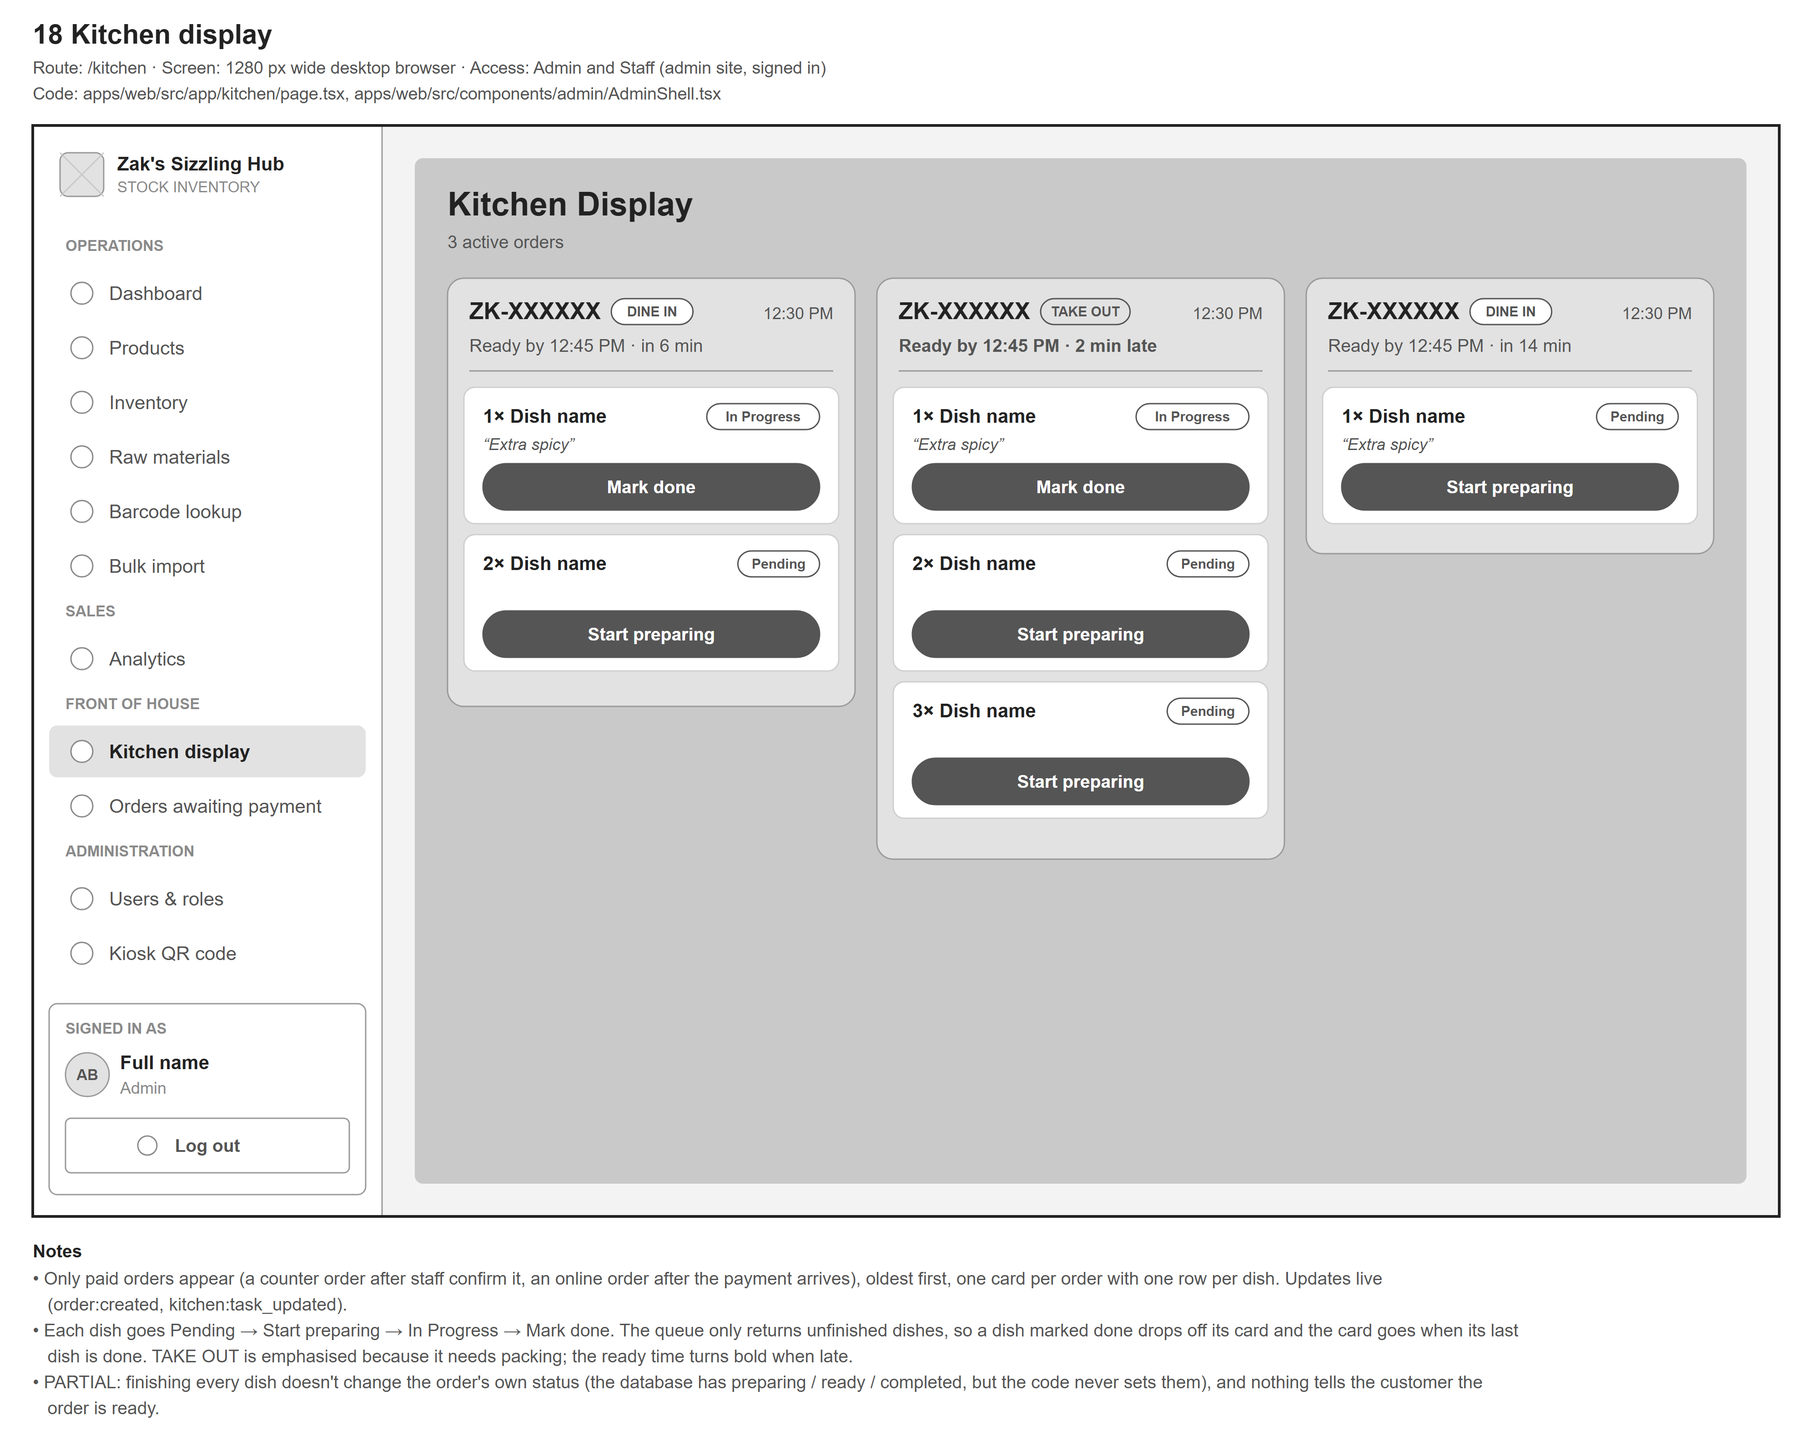
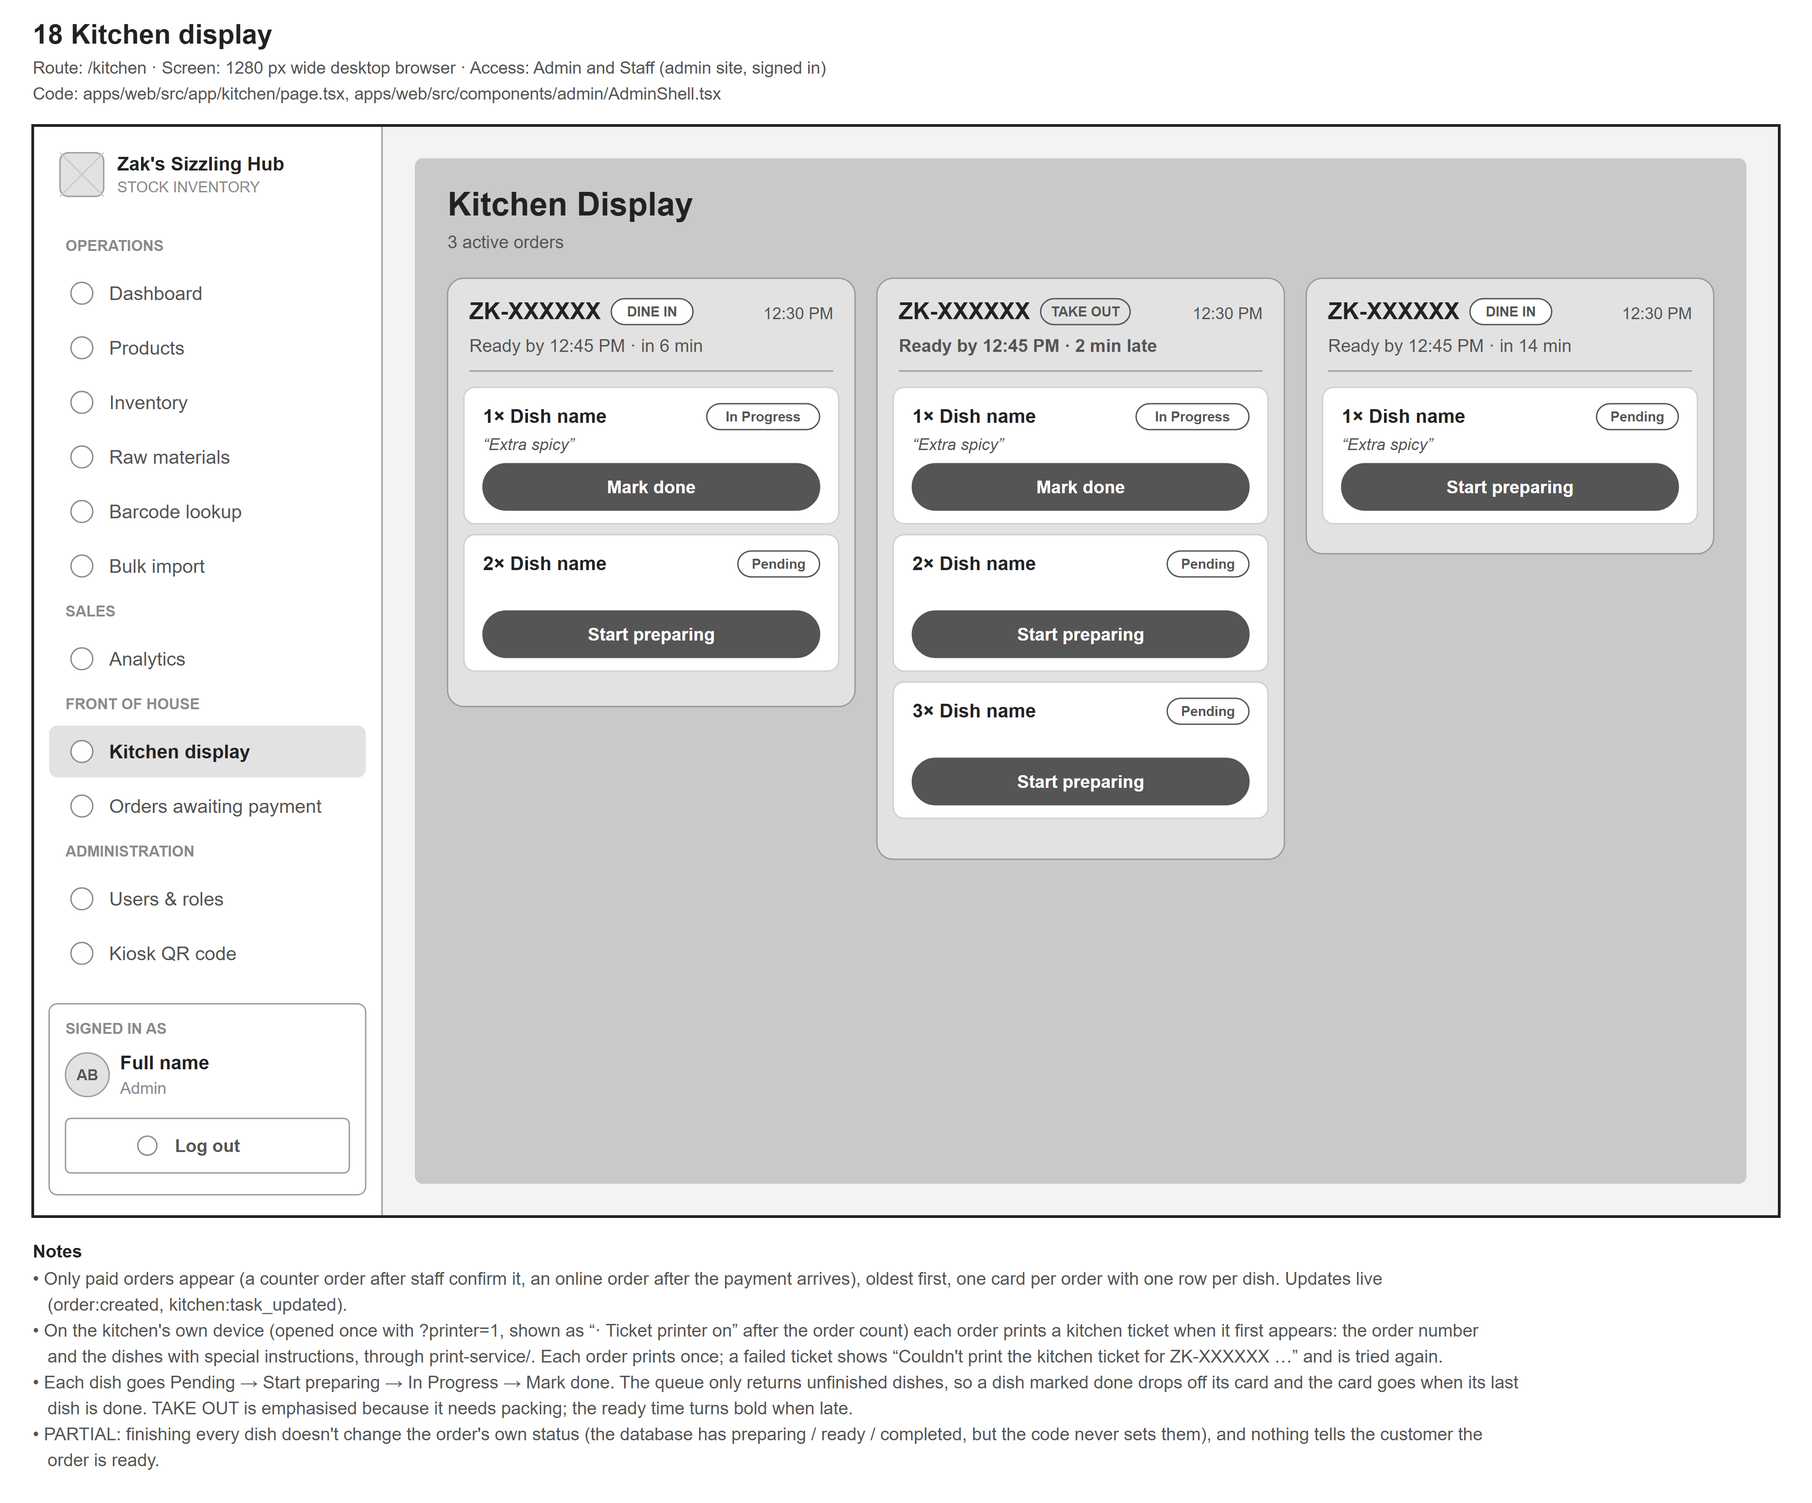
docs: kitchen ticket printing in READMEs and diagrams
The print service README covers both printers and their setup. Wireframe 08 shows
the receipt message again, 18 notes the kitchen ticket, flow 06 gains the ticket
step, and flow 03 and the diagrams README match.

Changed region(s): [[0.0, 0.031, 0.9649, 0.5893], [0.0, 0.4342, 0.9649, 0.9925]]

diff --git a/docs/diagrams/source/flows_more.py b/docs/diagrams/source/flows_more.py
@@ -129,10 +129,11 @@ def online_payment():
 def kitchen():
     f = Flow("kitchen-fulfilment", "06", "Kitchen fulfilment",
              ["Kitchen staff", "Kitchen display (web app)", "API server"],
-             W + "app/kitchen/page.tsx, " + API + "kitchen/routes.ts, " + API + "kitchen/service.ts, " + API + "orders/prepTime.ts (setEstimateOnReachingKitchen)",
+             W + "app/kitchen/page.tsx, " + W + "lib/receiptPrinter.ts, print-service/server.js, " + API + "kitchen/routes.ts, " + API + "kitchen/service.ts, " + API + "orders/prepTime.ts (setEstimateOnReachingKitchen)",
              notes=[
                  "PARTIAL: finishing every dish doesn't change the order's own status (the database has preparing, ready and completed, but the code never sets them), and nothing in the system tells the customer the order is ready; the receipt says “We'll call your order number”.",
                  "Any signed-in Staff or Admin can use the kitchen display. A dish only moves forward: Pending → In Progress → Completed.",
+                 "Kitchen tickets print only on the device with the kitchen printer (print-service/), once per order; if printing fails the display says so and tries again with the next update or within 30 seconds.",
              ])
     S, K, A = f.lanes
     f.n("start", A, 0, "start", "Order is paid (Flow 04 or 05)")
@@ -140,22 +141,27 @@ def kitchen():
     f.n("notify", A, 2, "process", "Send “order:created” to every open kitchen display")
     f.n("reload", K, 3, "process", "Reload the queue: unfinished dishes only, grouped by order, oldest first")
     f.n("cards", K, 4, "io", "Show the order cards: number, DINE IN / TAKE OUT, ready-by time, dishes (18)")
-    f.n("which", S, 5, "decision", "Next dish: Pending or In Progress?")
-    f.n("startp", S, 6, "process", "Press Start preparing")
-    f.n("inprog", A, 6, "process", "Set In Progress and the start time; send “kitchen:task_updated”")
-    f.n("reload2", K, 7, "process", "Reload the queue; the dish shows In Progress")
-    f.n("donep", S, 8, "process", "Cook the dish; press Mark done")
-    f.n("complete", A, 8, "process", "Set Completed and the finish time; send “kitchen:task_updated”")
-    f.n("reload3", K, 9, "process", "Reload the queue; the finished dish drops off its card")
-    f.n("left", K, 10, "decision", "Any dish of this order left?")
-    f.n("gone", K, 11, "process", "The order's card leaves the display")
-    f.n("call", S, 12, "process", "Call the order number (outside the system)", partial=True)
-    f.n("end", S, 13, "end", "End")
+    f.n("printer", K, 5, "decision", "Kitchen printer here, ticket not printed yet?")
+    f.n("ticket", K, 6, "process", "Send the ticket to the print service: order number and dishes; it prints on the kitchen printer")
+    f.n("which", S, 7, "decision", "Next dish: Pending or In Progress?")
+    f.n("startp", S, 8, "process", "Press Start preparing")
+    f.n("inprog", A, 8, "process", "Set In Progress and the start time; send “kitchen:task_updated”")
+    f.n("reload2", K, 9, "process", "Reload the queue; the dish shows In Progress")
+    f.n("donep", S, 10, "process", "Cook the dish; press Mark done")
+    f.n("complete", A, 10, "process", "Set Completed and the finish time; send “kitchen:task_updated”")
+    f.n("reload3", K, 11, "process", "Reload the queue; the finished dish drops off its card")
+    f.n("left", K, 12, "decision", "Any dish of this order left?")
+    f.n("gone", K, 13, "process", "The order's card leaves the display")
+    f.n("call", S, 14, "process", "Call the order number (outside the system)", partial=True)
+    f.n("end", S, 15, "end", "End")
     f.e("start", "tasks")
     f.e("tasks", "notify")
     f.e("notify", "reload")
     f.e("reload", "cards")
-    f.e("cards", "which")
+    f.e("cards", "printer")
+    f.e("printer", "ticket", "Yes")
+    f.e("printer", "which", "No", exit="l", entry="r")
+    f.e("ticket", "which", exit="b", entry="t")
     f.e("which", "startp", "Pending")
     f.e("which", "donep", "In Progress", exit="l")
     f.e("startp", "inprog", exit="r", entry="l")

diff --git a/docs/diagrams/source/screens_kiosk.py b/docs/diagrams/source/screens_kiosk.py
@@ -481,8 +481,7 @@ def receipt(f, paid):
     f.text(rx + rw - 18, y + 178, "₱000.00", size=20, bold=True, anchor="end")
     f.text(rx + 18, y + 204, "Payment method: QR Ph · Ref: (PayMongo reference)" if paid else "Payment method: Pay at counter", size=13, fill=INK2)
     if not paid:
-        f.text(rx, y + h - 124, "Take both slips below: keep your receipt and give", size=15, bold=True)
-        f.text(rx, y + h - 102, "the kitchen copy to the counter.", size=15, bold=True)
+        f.text(rx, y + h - 98, "Take your printed receipt below.", size=15, bold=True)
     f.btn(rx, y + h - 84, rw, 56, "Done", kind="primary", r=28, size=18)
 
 
@@ -490,7 +489,7 @@ def receipt_counter():
     f = kiosk("08", "Receipt: pay at counter", "/checkout  (after Place order)",
               K + "ReceiptModal.tsx, apps/web/src/app/checkout/page.tsx, apps/web/src/lib/receiptPrinter.ts")
     receipt(f, paid=False)
-    f.add_note("On the in-store kiosk the receipt also prints on the 58 mm thermal printer, through the print service on the Raspberry Pi (print-service/), as two slips: the receipt with prices and a kitchen copy without. The line above Done shows “Printing your receipt and kitchen copy…”, then “Take both slips below: keep your receipt and give the kitchen copy to the counter.” (shown), or “We couldn't print your receipt. Please show this screen at the counter.” The order is placed either way. Phones opened from the QR code don't print and show no line.")
+    f.add_note("On the in-store kiosk the receipt also prints on the 58 mm thermal printer, through the print service on the Raspberry Pi (print-service/). The line above Done shows “Printing your receipt…”, then “Take your printed receipt below.” (shown), or “We couldn't print your receipt. Please show this screen at the counter.” The order is placed either way. Phones opened from the QR code don't print and show no line.")
     f.add_note("The order number is what the customer reads to the cashier (19). Dine in / Take out shows as the pill under the number.")
     f.add_note("If an online payment couldn't start (online payment not set up, or too many attempts), the order is shown the same way as a counter order, with a toast explaining it.")
     f.add_note("Done (or the idle reset) returns to the welcome screen (01). The order was already emptied when it was placed.")
@@ -500,7 +499,7 @@ def receipt_counter():
 def receipt_paid():
     f = kiosk("08b", "Receipt: paid online", "/checkout  (after the QR Ph payment)", K + "ReceiptModal.tsx, apps/web/src/app/checkout/page.tsx")
     receipt(f, paid=True)
-    f.add_note("Shown when the QR Ph payment arrives while the “Scan to pay” screen (07c) is open; on the in-store kiosk the receipt and kitchen copy also print, marked PAID. PARTIAL: not yet tested with PayMongo keys.")
+    f.add_note("Shown when the QR Ph payment arrives while the “Scan to pay” screen (07c) is open; on the in-store kiosk the receipt also prints, marked PAID. PARTIAL: not yet tested with PayMongo keys.")
     f.add_note("A third wording exists for an order with no payment record: “We couldn't confirm payment yet — please check with staff.”")
     return f
 

diff --git a/docs/diagrams/source/screens_admin.py b/docs/diagrams/source/screens_admin.py
@@ -670,6 +670,7 @@ def kitchen_page(empty):
                 f.btn(x + 26, ty + 56, cw - 52, 34, "Start preparing" if status == "pending" else "Mark done", kind="primary", r=17)
             ty += 108
     f.add_note("Only paid orders appear (a counter order after staff confirm it, an online order after the payment arrives), oldest first, one card per order with one row per dish. Updates live (order:created, kitchen:task_updated).")
+    f.add_note("On the kitchen's own device (opened once with ?printer=1, shown as “· Ticket printer on” after the order count) each order prints a kitchen ticket when it first appears: the order number and the dishes with special instructions, through print-service/. Each order prints once; a failed ticket shows “Couldn't print the kitchen ticket for ZK-XXXXXX …” and is tried again.")
     f.add_note("Each dish goes Pending → Start preparing → In Progress → Mark done. The queue only returns unfinished dishes, so a dish marked done drops off its card and the card goes when its last dish is done. TAKE OUT is emphasised because it needs packing; the ready time turns bold when late.")
     f.add_note("PARTIAL: finishing every dish doesn't change the order's own status (the database has preparing / ready / completed, but the code never sets them), and nothing tells the customer the order is ready.")
     return f

diff --git a/docs/diagrams/source/readme.py b/docs/diagrams/source/readme.py
@@ -142,8 +142,9 @@ def main():
         "- **Orders awaiting payment** doesn't refresh by itself when an order is placed or paid; the server sends `payment:confirmed`, but no page listens (19).",
         "- **Low-stock emails** need email set up for the worker (Resend or SMTP); without it alerts wait in the database (flow 07).",
         "- **No custom “page not found”**: staff pages on the kiosk site show Next.js's default 404, so it has no wireframe.",
-        "- **Receipt printing** works only on the kiosk's Raspberry Pi, through `print-service/` (opened once with `?printer=1`); "
-        "each order prints a customer receipt and a kitchen copy (08, flow 03). Phones opened from the QR code don't print.",
+        "- **Printing** needs `print-service/` running next to each printer, switched on once per device with `?printer=1`: "
+        "the kiosk's Raspberry Pi prints the customer receipt (08, flow 03), and the kitchen display's device prints a kitchen ticket "
+        "with the order number and dishes once the order is paid (18, flow 06). Phones opened from the QR code don't print.",
         "",
         "## Rebuilding",
         "",

diff --git a/docs/diagrams/source/flows.py b/docs/diagrams/source/flows.py
@@ -99,8 +99,8 @@ def ordering():
     f.n("counter", K, 21, "decision", "Pay at counter?")
     f.n("receipt", K, 22, "process", "Empty the order; show the receipt with the order number (08)")
     f.n("printer", K, 23, "decision", "In-store kiosk (opened once with ?printer=1)?")
-    f.n("print", K, 24, "process", "Send the order to the print service on the Pi; it prints the receipt and a kitchen copy")
-    f.n("printed", K, 25, "io", "Show “Take both slips below …”, or “We couldn't print your receipt …” if it failed")
+    f.n("print", K, 24, "process", "Send the receipt to the print service on the Pi; it prints on the 58 mm printer")
+    f.n("printed", K, 25, "io", "Show “Take your printed receipt below.”, or “We couldn't print your receipt …” if it failed")
     f.n("pay4", C, 26, "sub", "Pays at the counter (Flow 04)")
     f.n("pay5", A, 22, "sub", "Pays online with QR Ph (Flow 05)", partial=True)
     f.e("start", "load")

diff --git a/docs/diagrams/README.md b/docs/diagrams/README.md
@@ -75,7 +75,7 @@ Code paths in the wireframe table are relative to `apps/web/src/`.
 | [flow-03-customer-ordering.png](png/flow-03-customer-ordering.png) | Customer ordering at the kiosk | From walking up to the kiosk to a placed order: menu, dine in / take out, adding dishes, checkout, server checks. | apps/web/src/app/page.tsx, apps/web/src/components/kiosk/*.tsx, apps/web/src/hooks/useCart.tsx, apps/web/src/app/checkout/page.tsx, apps/api/src/modules/orders/routes.ts, apps/api/src/modules/orders/service.ts, apps/api/src/modules/orders/prepTime.ts, apps/api/src/modules/inventory/fulfillment.ts (assertStockForNewOrder) |
 | [flow-04-counter-payment.png](png/flow-04-counter-payment.png) | Counter payment, confirmation and cancelling | Staff confirm a counter order (stock check and deduction in one transaction), collect payment, or cancel it. | apps/web/src/app/staff/orders/page.tsx, apps/api/src/modules/payments/routes.ts, apps/api/src/modules/payments/service.ts (confirmCounterPayment), apps/api/src/modules/inventory/fulfillment.ts (deductStockForOrder), apps/api/src/modules/orders/service.ts (listOrders, cancelOrder), apps/api/src/modules/kitchen/service.ts |
 | [flow-05-online-payment.png](png/flow-05-online-payment.png) | Online payment with QR Ph shown on the kiosk (partial) | QR Ph shown on the kiosk through PayMongo: code, status check, webhook, new code, pay at the counter instead, stock-issue flag (partial: not yet tested with PayMongo). | apps/web/src/app/checkout/page.tsx, apps/web/src/components/kiosk/QrPaymentScreen.tsx, apps/api/src/modules/payments/routes.ts, apps/api/src/modules/payments/service.ts (createQrPhPayment, checkQrPhPayment, switchToCounterPayment, handleWebhook), apps/api/src/lib/paymongo.ts |
-| [flow-06-kitchen-fulfilment.png](png/flow-06-kitchen-fulfilment.png) | Kitchen fulfilment | Paid orders on the kitchen display: Start preparing, Mark done, card leaves when all dishes are done. | apps/web/src/app/kitchen/page.tsx, apps/api/src/modules/kitchen/routes.ts, apps/api/src/modules/kitchen/service.ts, apps/api/src/modules/orders/prepTime.ts (setEstimateOnReachingKitchen) |
+| [flow-06-kitchen-fulfilment.png](png/flow-06-kitchen-fulfilment.png) | Kitchen fulfilment | Paid orders on the kitchen display: Start preparing, Mark done, card leaves when all dishes are done. | apps/web/src/app/kitchen/page.tsx, apps/web/src/lib/receiptPrinter.ts, print-service/server.js, apps/api/src/modules/kitchen/routes.ts, apps/api/src/modules/kitchen/service.ts, apps/api/src/modules/orders/prepTime.ts (setEstimateOnReachingKitchen) |
 | [flow-07-stock-management.png](png/flow-07-stock-management.png) | Stock adjustments, live sold-out and low-stock alerts | Manual adjustments and automatic deduction, live sold-out updates, low-stock alert queue and emails. | apps/web/src/components/admin/AdjustStockModal.tsx, apps/web/src/components/admin/RawMaterialAdjustModal.tsx, apps/api/src/modules/inventory/service.ts, apps/api/src/modules/raw-materials/service.ts, apps/api/src/modules/inventory/fulfillment.ts, apps/api/prisma/migrations/*low_stock_alerts*, apps/worker/src/index.ts, apps/worker/src/jobs/sendLowStockAlerts.ts, lowStockSweep.ts |
 | [flow-08-product-management.png](png/flow-08-product-management.png) | Adding, editing and deleting products (Admin) | Admin adds or edits a product (web and server checks, photo upload) or deletes one. | apps/web/src/app/admin/products/page.tsx, apps/web/src/components/admin/ProductForm.tsx, apps/web/src/lib/imageResize.ts, apps/api/src/modules/products/routes.ts, apps/api/src/modules/products/service.ts, apps/api/src/modules/products/image.ts |
 | [flow-09-bulk-import.png](png/flow-09-bulk-import.png) | Bulk product import from CSV or Excel (Admin) | CSV / Excel upload, conversion, dry-run preview, fixing errors, importing. | apps/web/src/app/admin/import/page.tsx, apps/api/src/modules/products/routes.ts, apps/api/src/modules/products/bulkImport.ts, apps/api/src/modules/products/xlsxImport.ts |
@@ -97,7 +97,7 @@ These are marked in the diagrams (dashed outlines or notes). They describe the c
 - **Orders awaiting payment** doesn't refresh by itself when an order is placed or paid; the server sends `payment:confirmed`, but no page listens (19).
 - **Low-stock emails** need email set up for the worker (Resend or SMTP); without it alerts wait in the database (flow 07).
 - **No custom “page not found”**: staff pages on the kiosk site show Next.js's default 404, so it has no wireframe.
-- **Receipt printing** works only on the kiosk's Raspberry Pi, through `print-service/` (opened once with `?printer=1`); each order prints a customer receipt and a kitchen copy (08, flow 03). Phones opened from the QR code don't print.
+- **Printing** needs `print-service/` running next to each printer, switched on once per device with `?printer=1`: the kiosk's Raspberry Pi prints the customer receipt (08, flow 03), and the kitchen display's device prints a kitchen ticket with the order number and dishes once the order is paid (18, flow 06). Phones opened from the QR code don't print.
 
 ## Rebuilding
 

diff --git a/README.md b/README.md
@@ -15,8 +15,9 @@ apps/
   worker/   Scheduled jobs — nightly DB backup, hourly low-stock sweep (node-cron)
 packages/
   shared-types/   Types shared between web and api (entities, WS event map)
-print-service/    Runs on the kiosk's Raspberry Pi: prints the receipt and kitchen copy
-                  on the thermal printer (not an npm workspace; see its README)
+print-service/    Runs next to each thermal printer: the customer receipt on the kiosk's
+                  Raspberry Pi, the kitchen ticket on the kitchen display's device
+                  (not an npm workspace; see its README)
 ```
 
 ## Status
@@ -76,9 +77,10 @@ Sprints 1-3 are built and verified end-to-end against the local PostgreSQL datab
   storage (needed once this runs on Railway, whose filesystem is ephemeral) isn't
   implemented, since no object storage credentials are configured in this environment.
 
-All 5 sprints from the original plan are now built. Receipt printing runs through
-`print-service/` on the kiosk's Raspberry Pi (a customer receipt and a kitchen copy per
-order). Offline/PWA support was removed from scope.
+All 5 sprints from the original plan are now built. Printing runs through
+`print-service/`: the kiosk's Raspberry Pi prints the customer receipt, and a second
+printer at the kitchen display prints a kitchen ticket (order number and dishes) once the
+order is paid. Offline/PWA support was removed from scope.
 
 - **Railway deployment prep** — while setting up the actual Railway project (4
   services: `api`, `web`, `worker`, and a managed Postgres), found two things that
